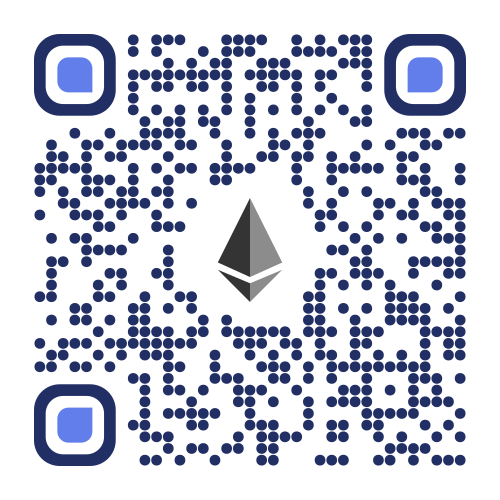
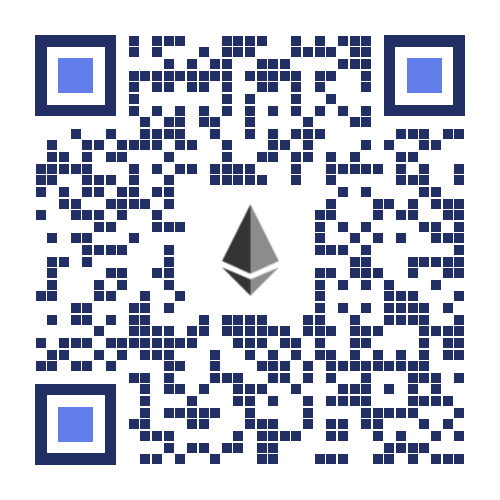
Venmo + Square donation QRs (top/bottom center), retro restyle of all six; cache bump fireside-v7
Six QRs ring the donate box now: PayPal TL, Venmo TC, BTC TR, XRP BL,
Square BC, ETH BR — all restyled to fat bitmap pixels + classic square
finders. themeQR gains a keepGreen passthrough (Square only, gated to
the center region) so the Colorful River wordmark stays Pine Static
green while the finders tint with the palette. All six verified
decodable from a rendered popup screenshot.

diff --git a/js/donate.js b/js/donate.js
@@ -4,10 +4,10 @@
 // for the tab strip / close button. Shown at most once per page load.
 //
 // Colors follow the active palette (same convention as the side panels:
-// button bg = palette text color, button text = palette background). The four
-// donation QR codes sit in the corners — PayPal TL, Bitcoin TR, Ripple BL,
-// Ethereum BR — re-tinted at show time: modules in the PLEASE DONATE hot
-// color on a black tile.
+// button bg = palette text color, button text = palette background). The six
+// donation QR codes ring the box — PayPal TL, Venmo top-center, Bitcoin TR,
+// Ripple BL, Square bottom-center, Ethereum BR — re-tinted at show time:
+// modules in the PLEASE DONATE hot color on a black tile.
 //
 // Preview while styling: open the page with ?donate=1.
 
@@ -16,8 +16,13 @@ let overlay = null;
 
 const QRS = [
   { src: "qr/paypal.png", label: "PAYPAL", corner: "tl" },
+  { src: "qr/venmo.png", label: "VENMO", corner: "tc" },
   { src: "qr/btc.png", label: "BITCOIN", corner: "tr" },
   { src: "qr/xrp.png", label: "RIPPLE", corner: "bl" },
+  // keepGreen: the Colorful River wordmark in its center stays Pine Static
+  // #22E893 instead of being palette-tinted (center region only — the green
+  // finder centers tint like everything else).
+  { src: "qr/square.png", label: "SQUARE", corner: "bc", keepGreen: true },
   { src: "qr/eth.png", label: "ETHEREUM", corner: "br" },
 ];
 
@@ -25,7 +30,7 @@ const QRS = [
 // palette color as the PLEASE DONATE message (p.table[215] — a bright band
 // on every palette, monochrome included). Inverted-contrast QRs scan fine on
 // modern phone cameras.
-function themeQR(canvas, img, p) {
+function themeQR(canvas, img, p, keepGreen) {
   const w = img.width, h = img.height;
   canvas.width = w;
   canvas.height = h;
@@ -35,11 +40,22 @@ function themeQR(canvas, img, p) {
   const d = id.data;
   const m = /rgb\((\d+),\s*(\d+),\s*(\d+)\)/.exec(p.table[215]);
   const ink = m ? [+m[1], +m[2], +m[3]] : [255, 160, 0];
-  for (let i = 0; i < d.length; i += 4) {
+  for (let i = 0, px = 0; i < d.length; i += 4, px++) {
+    const x = px % w, y = (px / w) | 0;
     const a = d[i + 3] / 255;               // flatten alpha onto white
     const r = d[i] * a + 255 * (1 - a);
     const g = d[i + 1] * a + 255 * (1 - a);
     const b = d[i + 2] * a + 255 * (1 - a);
+    // brand-green passthrough (Square's Colorful River wordmark): green
+    // reads fine on the black tile, so leave it untinted rather than
+    // flattening it into a mid-brightness ink blob. Center region only —
+    // the finder centers are the same green in the source but must tint
+    // with the rest of the code.
+    const central = Math.abs(x - w / 2) < w * 0.14 && Math.abs(y - h / 2) < h * 0.14;
+    if (keepGreen && central && g > r + 60 && g > b + 35) {
+      d[i] = r; d[i + 1] = g; d[i + 2] = b; d[i + 3] = 255;
+      continue;
+    }
     const lum = (r * 299 + g * 587 + b * 114) / 255000;
     const t = Math.min(1, (1 - lum) * 1.55); // darkness → ink amount
     d[i] = ink[0] * t;
@@ -69,7 +85,7 @@ function build(p) {
     card.append(canvas, label);
     overlay.appendChild(card);
     const img = new Image();
-    img.onload = () => themeQR(canvas, img, p);
+    img.onload = () => themeQR(canvas, img, p, q.keepGreen);
     img.src = q.src;
   }
 

diff --git a/css/style.css b/css/style.css
@@ -86,7 +86,8 @@ body.idle, body.idle * {
   font-family: "Less Perfect DOS VGA", monospace;
 }
 
-/* Donation QR codes — one per corner, palette-tinted onto canvas. */
+/* Donation QR codes — corners + top/bottom center, palette-tinted onto
+   canvas. */
 .donate-qr {
   position: absolute;
   display: flex;
@@ -96,8 +97,10 @@ body.idle, body.idle * {
 }
 
 .donate-qr.tl { top: 2.5vh; left: 2.5vw; }
+.donate-qr.tc { top: 2.5vh; left: 50%; transform: translateX(-50%); }
 .donate-qr.tr { top: 2.5vh; right: 2.5vw; }
 .donate-qr.bl { bottom: 2.5vh; left: 2.5vw; }
+.donate-qr.bc { bottom: 2.5vh; left: 50%; transform: translateX(-50%); }
 .donate-qr.br { bottom: 2.5vh; right: 2.5vw; }
 
 .donate-qr canvas {
@@ -127,7 +130,7 @@ body.idle, body.idle * {
     width: min(92vw, 480px);
     padding: 1.5rem 1rem;
   }
-  .donate-qr { position: static; }
+  .donate-qr { position: static; transform: none; }
 }
 
 #donate-box {

diff --git a/sw.js b/sw.js
@@ -3,7 +3,7 @@
 // while the fire still burns with no connection at all.
 //
 // Bump CACHE on any deploy that changes cached files.
-const CACHE = "fireside-v6";
+const CACHE = "fireside-v7";
 
 const SHELL = [
   "./",
@@ -25,6 +25,8 @@ const SHELL = [
   "qr/eth.png",
   "qr/xrp.png",
   "qr/paypal.png",
+  "qr/venmo.png",
+  "qr/square.png",
   "splash.png",
   "favicon.ico",
   "icons/favicon-48.png",
